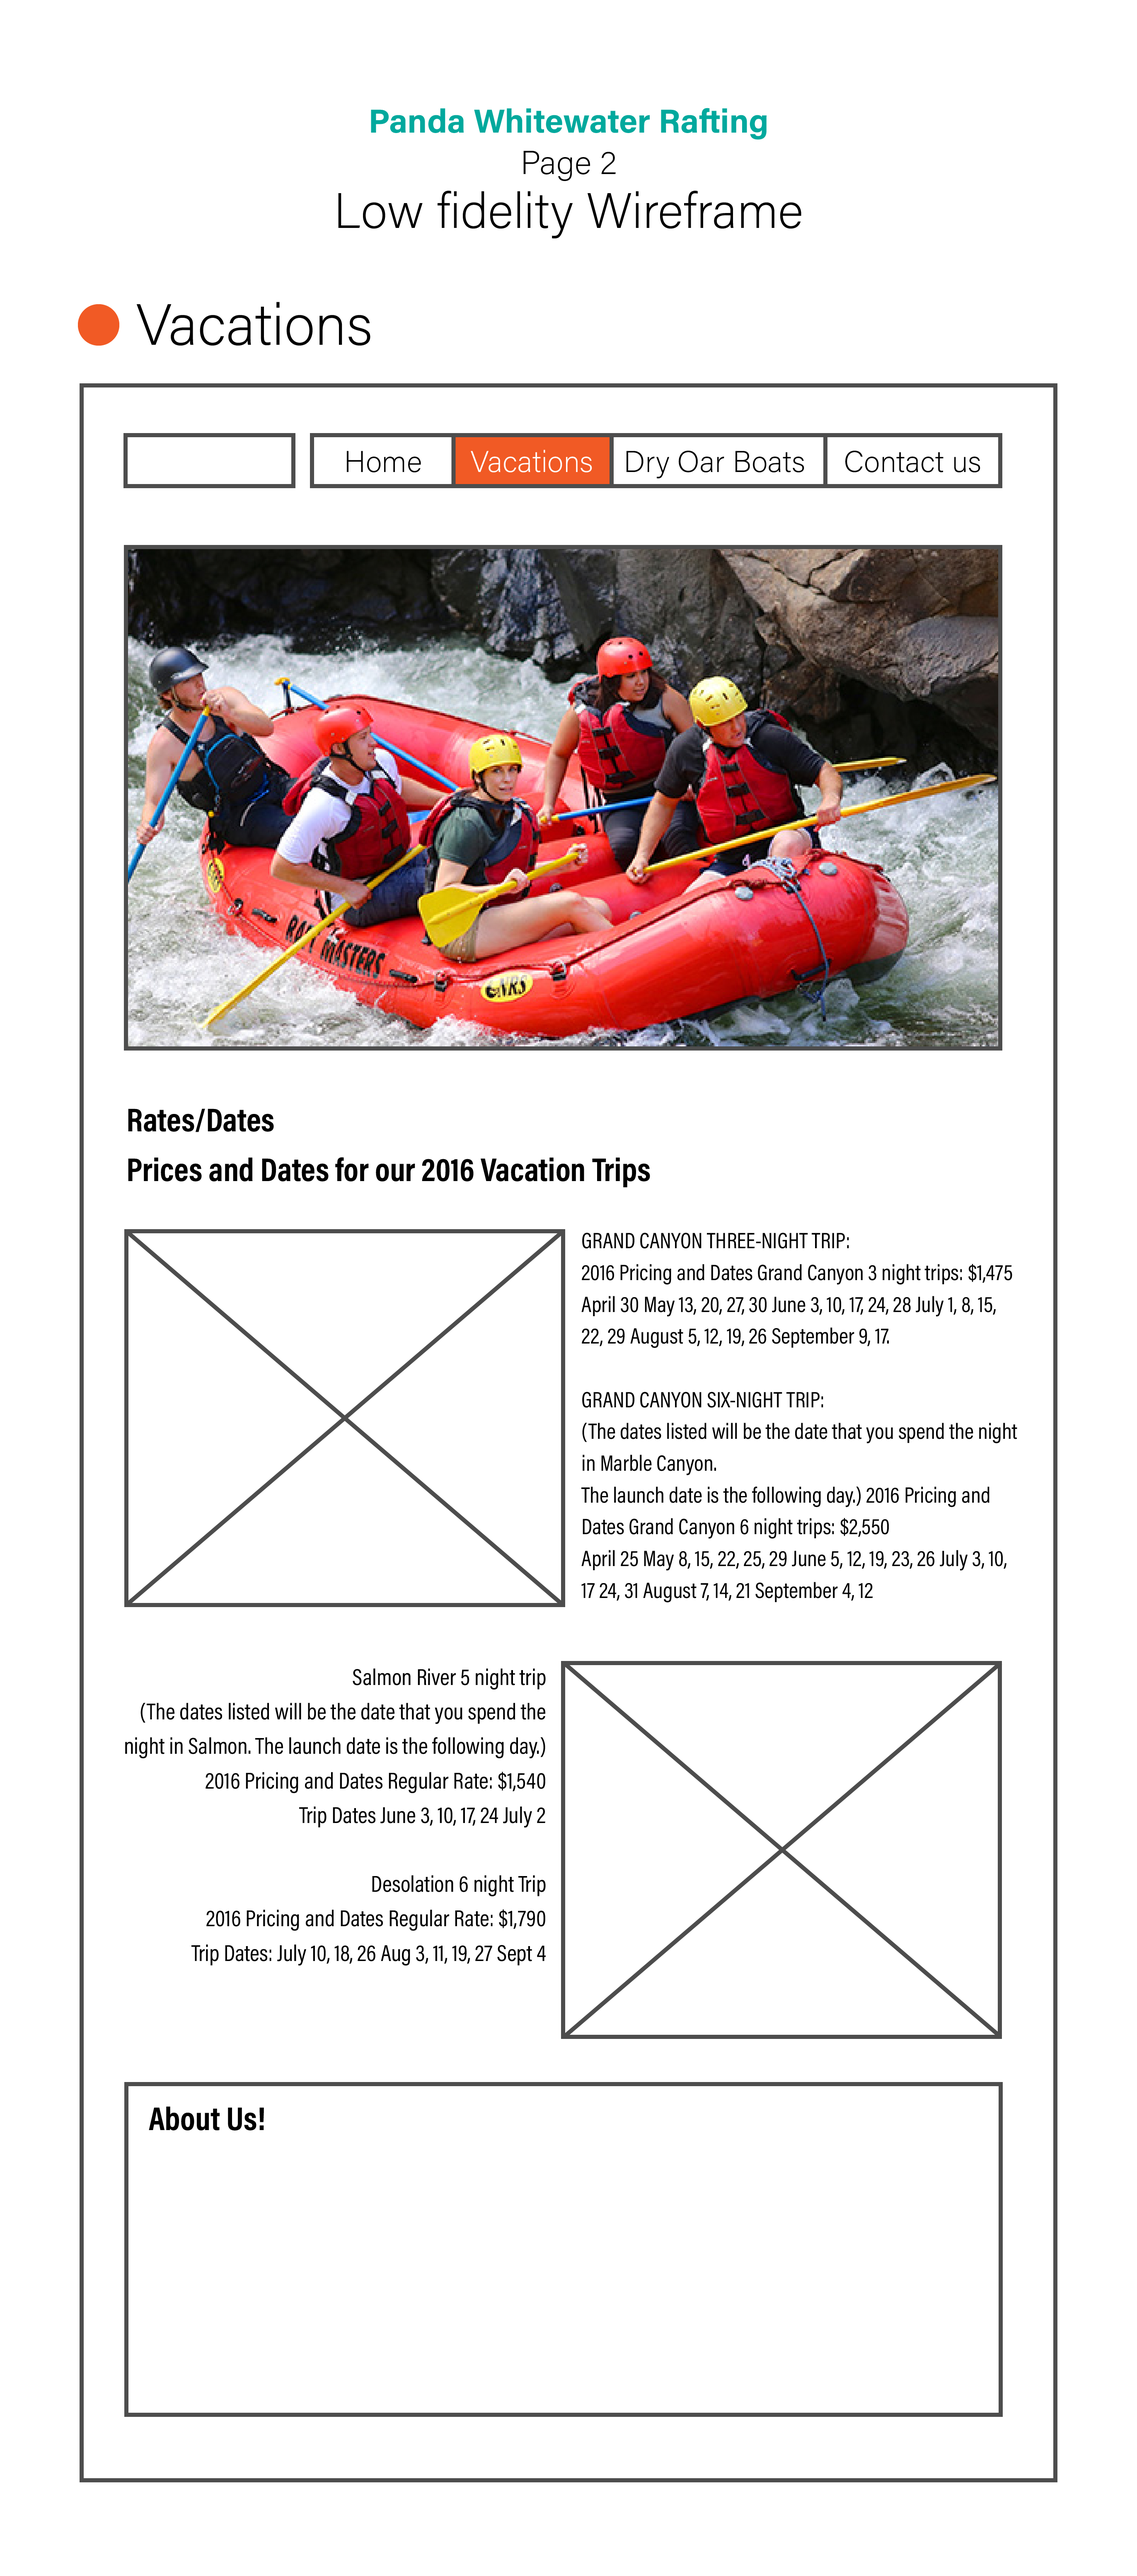
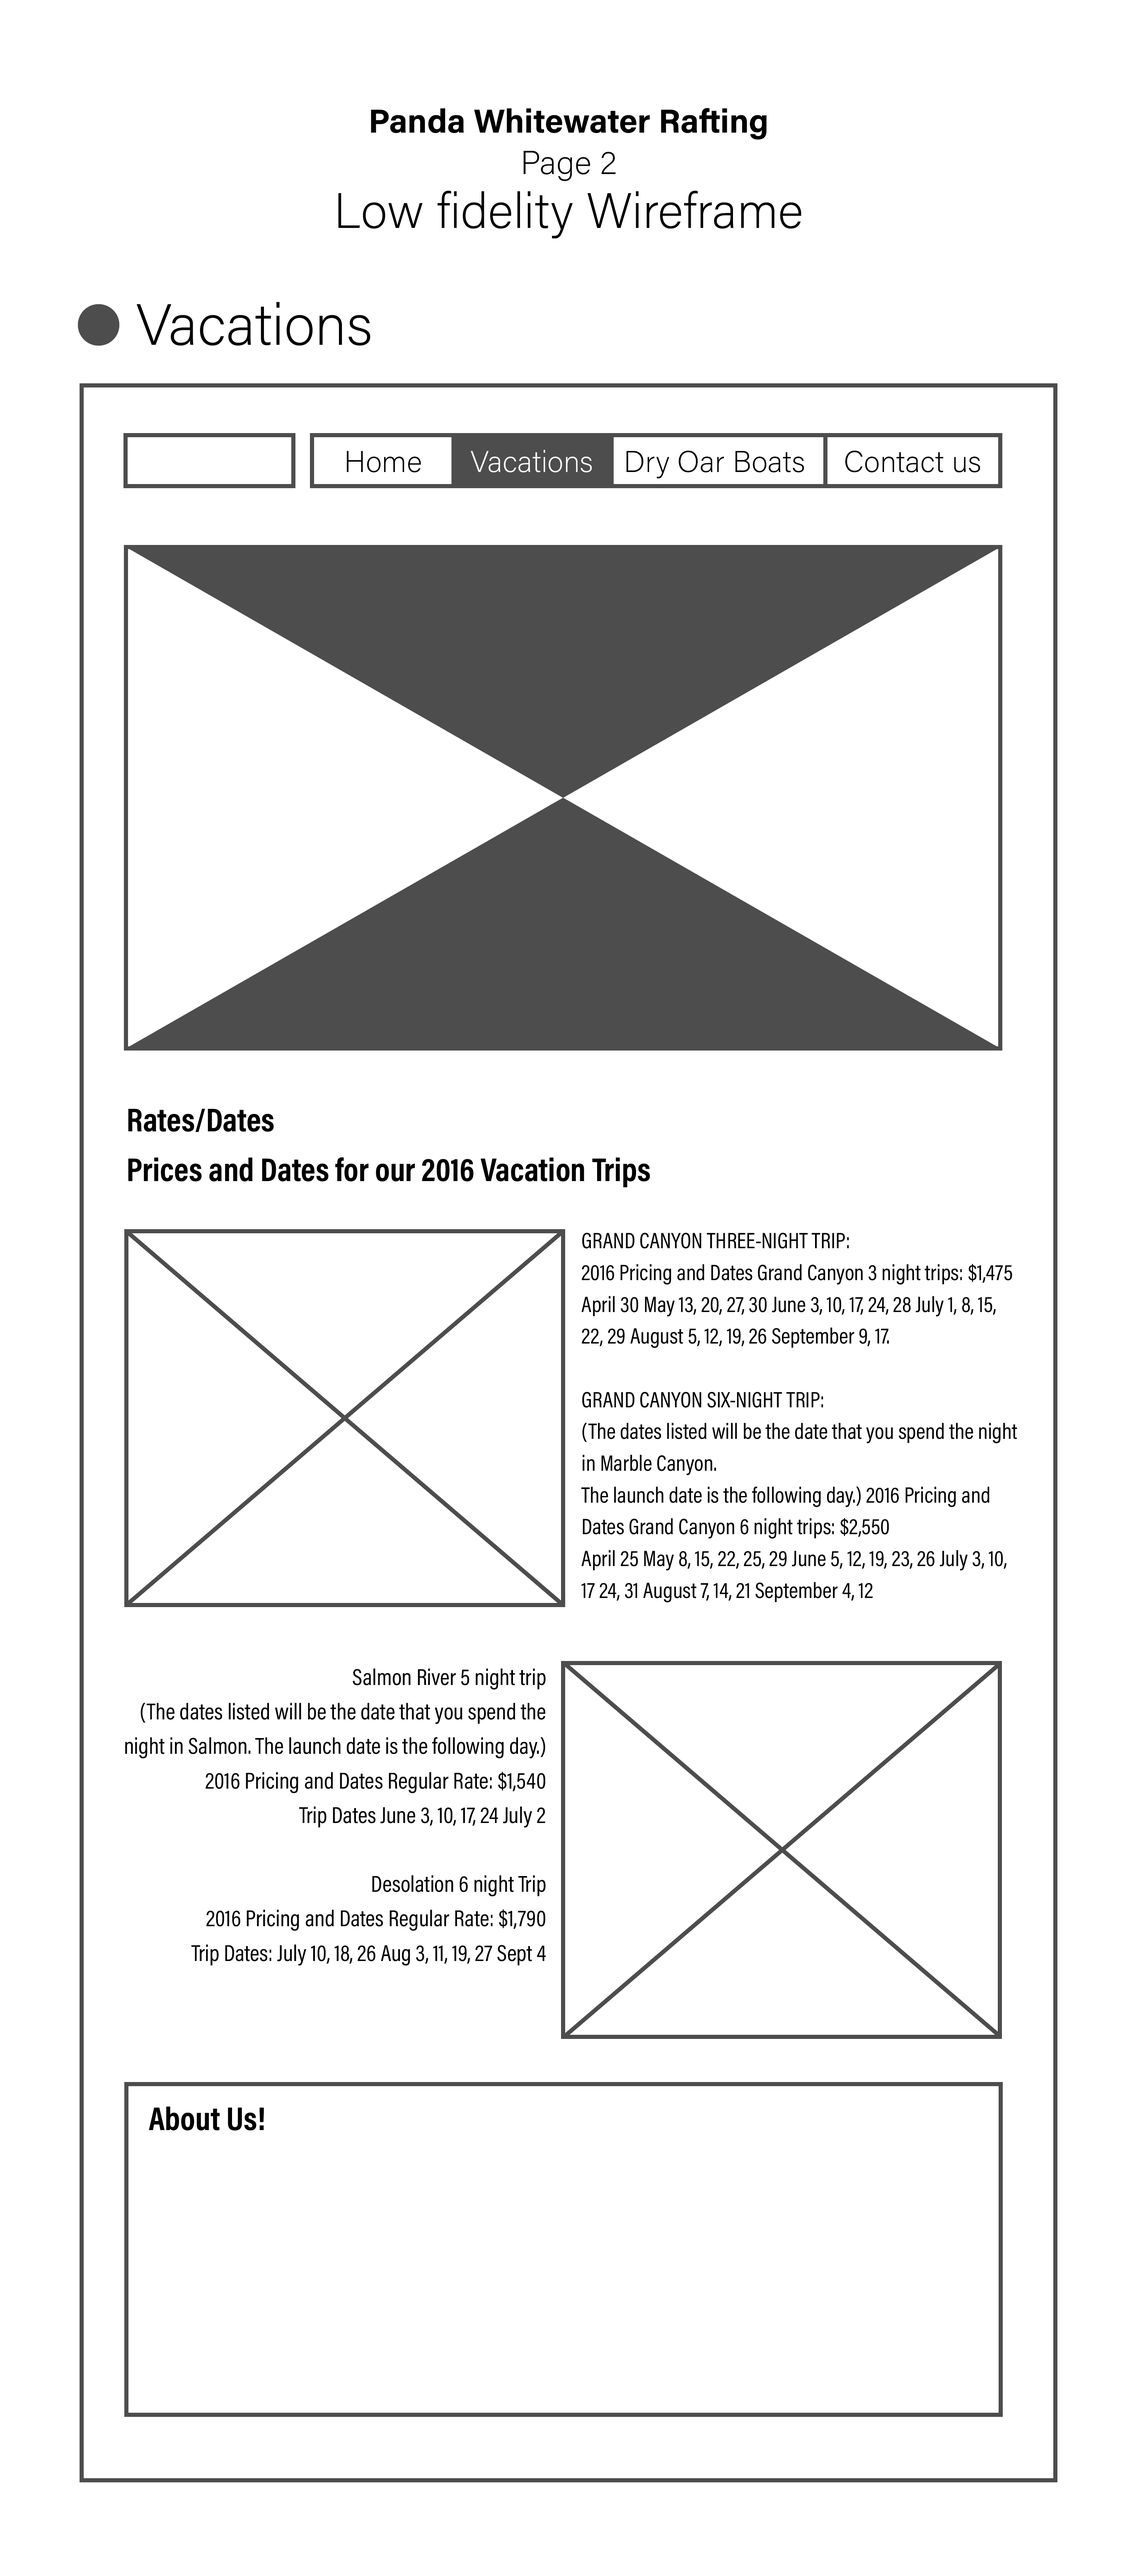
commit1

Changed region(s): [[0.0929, 0.156, 0.8983, 0.4057], [0.3407, 0.0312, 0.6815, 0.0624], [0.062, 0.0936, 0.0929, 0.156]]

diff --git a/wwr/vacations.html b/wwr/vacations.html
@@ -4,9 +4,65 @@
     <meta charset="UTF-8">
     <meta http-equiv="X-UA-Compatible" content="IE=edge">
     <meta name="viewport" content="width=device-width, initial-scale=1.0">
-    <title>Document</title>
+    <title>HOME   VACATIONS   DRY OAR BOATS   CONTACT US</title>
+    <link rel="stylesheet" href="styles/style.css">
 </head>
 <body>
-    
+    <div id="content">
+        
+        <header>
+            <a id="logo_link" href="index.html">
+                <img class="logo" src="images/PandaWhitewaterRafftingLogo.png" alt="Panda Whitewater Rafting Logo">
+            </a>
+            <nav>
+                <a href="index.html" target="_blank">HOME</a>
+                <a href="vacations.html" target="_blank">VACATIONS</a>
+                <a href="site-plan-rafting.html" target="_blank">DRY OAR BOATS</a>
+                <a href="contactus.html" target="_blank">CONTACT US</a>
+            </nav>
+        </header>
+    <div id="hero">
+        <div id="hero-box">
+            <img id="hero-img" src="images/clearcreekcounty_Rafters.jpg" alt="People enjoying white water rafting">
+        </div>
+        <section id="hero-msg">
+            <h1 class="home-title">Have An Adventure</h1>
+            <h4>Make Memories with us </h4>
+            <div class='button-box'>
+                <a class='book' href="rates.html">Book Now</a>
+            </div>
+        </section>
+    </div>  
+
+    <main class="rivers-grid">
+        <section class="rivers-card">
+            <img class="card-img" src="images/river.jpg" alt="river in forest">
+            <img class="icon" src="images/rivericon.png" alt="river icon">
+            <h2>Rivers</h2>
+        </section>
+        <section class="camping-card">
+            <img class="card-img" src="images/camping.jpg" alt="tent in mountains">
+            <img class="icon" src="images/fire_icon.png" alt="fire icon">
+            <h2>Camping</h2>
+        </section>
+        <section class="rapids-card">
+            <img class="card-img" src="images/boat.jpg" alt="rafting boat">
+            <img class="icon" src="images/boat_icon.png" alt="oars icon">
+            <h2>Rapids</h2>
+        </section>
+        <div id="background"></div> 
+        <img class="mountains" src="images/mountains.jpg" alt="Mountains">
+        <section class="msg">
+            <h2>More Than Just The Thrill</h2>
+            <p>Enjoy some quality time with your family on a breathtaking adventure through the river.</p>
+            <a class='join' href="rivers.html">Join Us</a>
+        </section>
+    </main>
+
+    </div>
+
+
+
 </body>
+
 </html>
